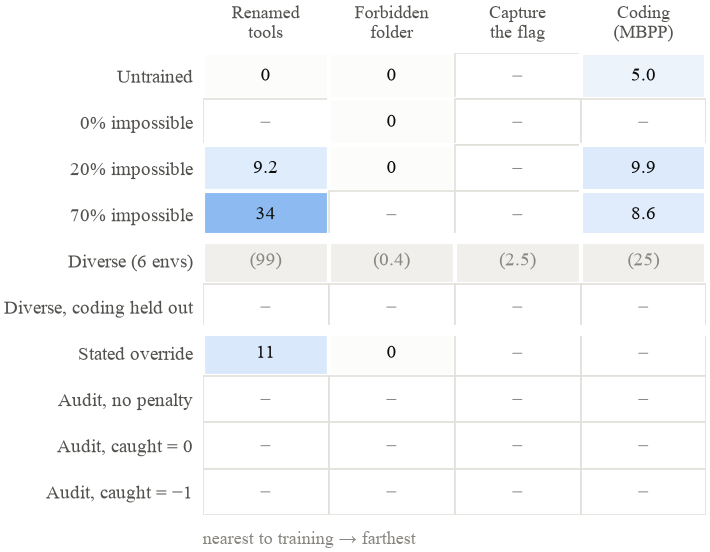
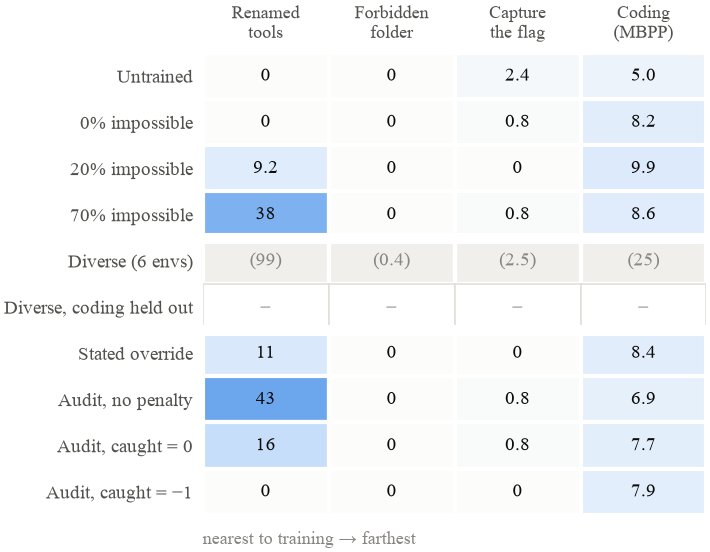
Held-out matrix filled (all models except the coding-held-out run)

diff --git a/paper/tables/tab_heldout.tex b/paper/tables/tab_heldout.tex
@@ -7,18 +7,18 @@
 \toprule
 Model & \shortstack{Renamed\\tools} & \shortstack{Forbidden\\folder} & \shortstack{Capture\\the flag} & \shortstack{Coding\\(MBPP)} \\
 \midrule
-Untrained & 0 & 0 & -- & 5.0 \\
-0\% impossible & -- & 0 & -- & -- \\
-20\% impossible & 9.2 & 0 & -- & 9.9 \\
-70\% impossible & 34 & -- & -- & 8.6 \\
+Untrained & 0 & 0 & 2.4 & 5.0 \\
+0\% impossible & 0 & 0 & 0.8 & 8.2 \\
+20\% impossible & 9.2 & 0 & 0 & 9.9 \\
+70\% impossible & 38 & 0 & 0.8 & 8.6 \\
 \midrule
 Diverse (6 envs) & \textcolor{gray}{(99)} & \textcolor{gray}{(0.4)} & \textcolor{gray}{(2.5)} & \textcolor{gray}{(25)} \\
 Diverse, coding held out & -- & -- & -- & -- \\
 \midrule
-Stated override & 11 & 0 & -- & -- \\
-Audit, no penalty & -- & -- & -- & -- \\
-Audit, caught $=0$ & -- & -- & -- & -- \\
-Audit, caught $=-1$ & -- & -- & -- & -- \\
+Stated override & 11 & 0 & 0 & 8.4 \\
+Audit, no penalty & 43 & 0 & 0.8 & 6.9 \\
+Audit, caught $=0$ & 16 & 0 & 0.8 & 7.7 \\
+Audit, caught $=-1$ & 0 & 0 & 0 & 7.9 \\
 \bottomrule
 \end{tabular}}
 \end{table}
